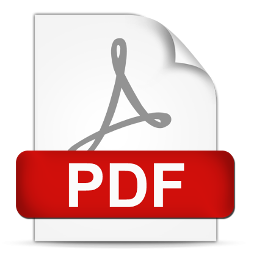
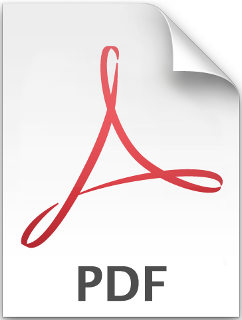
better datatables

diff --git a/app/pdfs/pdf_examination_protocol_r.rb b/app/pdfs/pdf_examination_protocol_r.rb
@@ -9,14 +9,7 @@ class PdfExaminationProtocolR < Prawn::Document
     @examinations = examinations
     @exam = exam
     @view = view
-    #@kuku = @examinations.map(&:division_id)
-    #@kuku = Division.where(id: @examinations.map(&:division_id)).all.map(&:short_name)
-    #@kuku = Division.where(id: @examinations.map(&:division_id)).order(:short_name).all.map(&:short_name)
-    #@kuku = Division.where(id: @examinations.map(&:division_id)).order(:short_name).all.map { |s| "#{s.short_name}" }
-    #@kuku = Division.where(id: @examinations.map(&:division_id).uniq).order(:short_name).all.pluck(:short_name)
-    #@kuku = Division.where(id: @examinations.map(&:division_id).uniq).order(:short_name).all.map { |s| "#{s.short_name}" }
-    #@kuku = Division.where(id: @examinations.map(&:division_id).uniq).order(:short_name).all.pluck(:short_name).inspect
-    @divisions_str = Division.where(id: @examinations.map(&:division_id).uniq).order(:short_name).all.map(&:short_name).join(', ')
+    @divisions_str = Division.where(id: @examinations.map(&:division_id).uniq).order(:short_name).map(&:short_name).join(', ')
 
     font_families.update("DejaVu Sans" => {
       :normal => "#{Rails.root}/app/assets/fonts/DejaVuSans.ttf", 
@@ -46,31 +39,58 @@ class PdfExaminationProtocolR < Prawn::Document
       else
         table( table_data,
               :header => true,
-              :column_widths => [20, 300, 100, 105],
+              :column_widths => [23, 170, 56, 214, 62],
               #:row_colors => ["ffffff", "c2ced7"],
               :cell_style => { size: 8, :border_width => 0.5 }
             ) do
           columns(0).align = :right
           columns(1).align = :left
           columns(2).align = :left
-          row(0).font_style = :bold 
+          #row(0).font_style = :bold 
           row(0).align = :left 
-          #row(0).background_color = "#FF0000"
+          row(0).background_color = "C0C0C0"
         end             
       end
+      display_total_table  
     end  
   end
 
-
-  def table_data
+  def table_data_ok
     @lp = 0
-    table_data ||= [["Lp",
-                     "Przedmiot",
-                     "Ocena (słownie)",
-                     "Podpis egzaminatora"]] + 
+    table_data ||= [
+                    ["Lp.",
+                     "Nazwisko i imię",
+                     "Rodzaj świadectwa",
+                     "Ocena z przedmiotów w/g karty egzaminacyjnej",
+                     "Wynik egzaminu"]
+                    ] + 
                      @examinations.map { |p| [ 
                         next_lp, 
                         p.customer.fullname,
+                        p.division.short_name,
+                        "",
+                        p.examination_resoult_name
+                      ] }
+  end
+
+  def table_data
+    @lp = 0
+    table_data ||= [["Lp.",
+                     "Nazwisko i imię",
+                     "Rodzaj świadectwa",
+                     "Ocena z przedmiotów w/g karty egzaminacyjnej",
+                     "Wynik egzaminu"], 
+                     ["LP",
+                      "NAME",
+                      "RODZAJ",
+                      "OCENA",
+                      "WYNIK"
+                     ] 
+                     ] + 
+                     @examinations.map { |p| [ 
+                        next_lp, 
+                        p.customer.fullname,
+                        p.division.short_name,
                         "",
                         p.examination_resoult_name
                       ] }
@@ -79,6 +99,15 @@ class PdfExaminationProtocolR < Prawn::Document
   def next_lp
     @lp = @lp +1
     return @lp 
+  end
+
+
+  def display_total_table
+    move_down 20
+    text "Członkowie Komisji Egzaminacyjnej", :align => :center
+    move_down 10
+    text "Przewodniczący sesji: #{@exam.chairman}"
+    text "Sekretarz sesji:      #{@exam.secretary}"
   end
 
 

diff --git a/app/datatables/exam_certificates_datatable.rb b/app/datatables/exam_certificates_datatable.rb
@@ -5,7 +5,7 @@ class ExamCertificatesDatatable < AjaxDatatablesRails::Base
   # include AjaxDatatablesRails::Extensions::WillPaginate
   # include AjaxDatatablesRails::Extensions::SimplePaginator
 
-  def_delegators :@view, :link_to, :h, :mailto, :attachment_url
+  def_delegators :@view, :link_to, :h, :mailto, :attachment_url, :image_tag, :get_fileattach_as_small_image
 
   def sortable_columns
     # list columns inside the Array in string dot notation.
@@ -40,14 +40,15 @@ class ExamCertificatesDatatable < AjaxDatatablesRails::Base
   def data
     # comma separated list of the values for each cell of a table row
     # certificateple: record.attribute,
+
     records.map do |record|
+
+      attach = record.documents.where(fileattach_content_type: ['image/jpeg', 'image/png', 'application/pdf']).last 
+
       [
         record.id,
-        #record.document_image_id? ? '<img src="' + get_attach_path(record)+ '">' : ' ',
-        # OK
-        #record.document_image_id? ? '<a href="/' + record.category.downcase + '/certificates/' + record.id.to_s + '"><img src="' + get_attach_path(record)+ '"></a>' : ' ',
-        record.documents.where(fileattach_content_type: ['image/jpeg', 'image/png', 'application/pdf']).any? ? '<a href="/' + record.category.downcase + '/certificates/' + record.id.to_s + '"><img src="' + get_attach_path(record)+ '"></a>' : ' ',
-        link_to(record.number, @view.certificate_path(params[:category_service], record)),
+        attach.present? ? link_to( image_tag( get_fileattach_as_small_image(attach, record.category.downcase) ), @view.certificate_path(params[:category_service], record, back_url: @view.exam_path(record.exam.category.downcase, record.exam))) : '',
+        link_to(record.number, @view.certificate_path(params[:category_service], record, back_url: @view.exam_path(record.exam.category.downcase, record.exam))),
         record.date_of_issue,
         record.valid_thru,
         record.certificate_status,
@@ -63,17 +64,6 @@ class ExamCertificatesDatatable < AjaxDatatablesRails::Base
                         class: "glyphicon glyphicon-trash", title: 'Usuń', rel: 'tooltip')  
       ]
     end
-  end
-
-  def get_attach_path(record)
-    case record.category.downcase
-    when 'l'
-      attachment_url(record.documents.where(fileattach_content_type: ['image/jpeg', 'image/png', 'application/pdf']).last, :fileattach, :fill, 87, 61, format: 'jpg')
-    when 'm'
-      attachment_url(record.documents.where(fileattach_content_type: ['image/jpeg', 'image/png', 'application/pdf']).last, :fileattach, :fill, 54, 77, format: 'jpg')
-    when 'r'
-      attachment_url(record.documents.where(fileattach_content_type: ['image/jpeg', 'image/png', 'application/pdf']).last, :fileattach, :fill, 54, 77, format: 'jpg')
-    end  
   end
 
   def get_raw_records

diff --git a/app/datatables/certificate_datatable.rb b/app/datatables/certificate_datatable.rb
@@ -5,7 +5,7 @@ class CertificateDatatable < AjaxDatatablesRails::Base
   # include AjaxDatatablesRails::Extensions::WillPaginate
   # include AjaxDatatablesRails::Extensions::SimplePaginator
 
-  def_delegators :@view, :link_to, :h, :mailto, :attachment_url
+  def_delegators :@view, :link_to, :h, :mailto, :attachment_url, :image_tag, :get_fileattach_as_small_image
 
   def sortable_columns
     # list columns inside the Array in string dot notation.
@@ -42,13 +42,12 @@ class CertificateDatatable < AjaxDatatablesRails::Base
     # comma separated list of the values for each cell of a table row
     # certificateple: record.attribute,
     records.map do |record|
+
+      attach = record.documents.where(fileattach_content_type: ['image/jpeg', 'image/png', 'application/pdf']).last 
+
       [
         record.id,
-        #'<img src="' +  '/attachments/store/fill/87/61/87556/BOGUSZEWSKI+ROBERT_OR_L-16646.jpg" alt="Boguszewski+robert or l 16646' +  '">',
-        #record.document_image_id? ? '<img src="' + get_attach_path(record)+ '">' : ' ',
-        # OK
-        #record.document_image_id? ? '<a href="/' + record.category.downcase + '/certificates/' + record.id.to_s + '"><img src="' + get_attach_path(record) + '"></a>' : ' ',
-        record.documents.where(fileattach_content_type: ['image/jpeg', 'image/png', 'application/pdf']).any? ? '<a href="/' + record.category.downcase + '/certificates/' + record.id.to_s + '"><img src="' + get_attach_path(record)+ '"></a>' : ' ',
+        attach.present? ? link_to( image_tag( get_fileattach_as_small_image(attach, record.category.downcase) ), @view.certificate_path(params[:category_service], record)) : '',
         link_to(record.number, @view.certificate_path(record.category.downcase, record)),
         record.date_of_issue,
         record.valid_thru,
@@ -59,17 +58,6 @@ class CertificateDatatable < AjaxDatatablesRails::Base
         record.category 
       ]
     end
-  end
-
-  def get_attach_path(record)
-    case record.category.downcase
-    when 'l'
-      attachment_url(record.documents.where(fileattach_content_type: ['image/jpeg', 'image/png', 'application/pdf']).last, :fileattach, :fill, 87, 61, format: 'jpg')
-    when 'm'
-      attachment_url(record.documents.where(fileattach_content_type: ['image/jpeg', 'image/png', 'application/pdf']).last, :fileattach, :fill, 54, 77, format: 'jpg')
-    when 'r'
-      attachment_url(record.documents.where(fileattach_content_type: ['image/jpeg', 'image/png', 'application/pdf']).last, :fileattach, :fill, 54, 77, format: 'jpg')
-    end  
   end
 
   def get_raw_records

diff --git a/app/datatables/exam_examinations_datatable.rb b/app/datatables/exam_examinations_datatable.rb
@@ -5,7 +5,7 @@ class ExamExaminationsDatatable < AjaxDatatablesRails::Base
   # include AjaxDatatablesRails::Extensions::WillPaginate
   # include AjaxDatatablesRails::Extensions::SimplePaginator
 
-  def_delegators :@view, :link_to, :h, :mailto, :attachment_url
+  def_delegators :@view, :link_to, :h, :mailto, :attachment_url, :image_tag, :get_fileattach_as_small_image
 
   def sortable_columns
     # list columns inside the Array in string dot notation.
@@ -39,12 +39,12 @@ class ExamExaminationsDatatable < AjaxDatatablesRails::Base
     # comma separated list of the values for each cell of a table row
     # certificateple: record.attribute,
     records.map do |record|
+
+      attach = record.documents.where(fileattach_content_type: ['image/jpeg', 'image/png', 'application/pdf']).last 
+
       [
         record.id,
-        #record.document_image_id? ? '<img src="' + get_attach_path(record)+ '">' : ' ',
-        # OK
-        #record.document_image_id? ? '<a href="/' + record.category.downcase + '/certificates/' + record.id.to_s + '"><img src="' + get_attach_path(record)+ '"></a>' : ' ',
-        record.documents.where(fileattach_content_type: ['image/jpeg', 'image/png', 'application/pdf']).any? ? '<a href="/' + record.category.downcase + '/examinations/' + record.id.to_s + '"><img src="' + get_attach_path(record)+ '"></a>' : ' ',
+        attach.present? ? link_to( image_tag( get_fileattach_as_small_image(attach, params[:category_service]) ), @view.examination_path(params[:category_service], record, back_url: @view.exam_path(record.exam.category.downcase, record.exam))) : '',
         link_to(record.customer.fullname_and_address, @view.customer_path(record.customer)),
         record.examination_category_name,
         record.division.name + " (" + record.division.short_name + ")",
@@ -63,17 +63,6 @@ class ExamExaminationsDatatable < AjaxDatatablesRails::Base
 
       ]
     end
-  end
-
-  def get_attach_path(record)
-    case record.category.downcase
-    when 'l'
-      attachment_url(record.documents.where(fileattach_content_type: ['image/jpeg', 'image/png', 'application/pdf']).last, :fileattach, :fill, 87, 61, format: 'jpg')
-    when 'm'
-      attachment_url(record.documents.where(fileattach_content_type: ['image/jpeg', 'image/png', 'application/pdf']).last, :fileattach, :fill, 54, 77, format: 'jpg')
-    when 'r'
-      attachment_url(record.documents.where(fileattach_content_type: ['image/jpeg', 'image/png', 'application/pdf']).last, :fileattach, :fill, 54, 77, format: 'jpg')
-    end  
   end
 
   def get_raw_records

diff --git a/app/datatables/exam_datatable.rb b/app/datatables/exam_datatable.rb
@@ -5,7 +5,7 @@ class ExamDatatable < AjaxDatatablesRails::Base
   # include AjaxDatatablesRails::Extensions::WillPaginate
   # include AjaxDatatablesRails::Extensions::SimplePaginator
 
-  def_delegators :@view, :link_to, :h, :mailto, :attachment_url
+  def_delegators :@view, :link_to, :h, :mailto, :attachment_url, :image_tag, :get_fileattach_as_small_image
 
   def sortable_columns
     # list columns inside the Array in string dot notation.
@@ -45,8 +45,11 @@ class ExamDatatable < AjaxDatatablesRails::Base
     # comma separated list of the values for each cell of a table row
     # example: record.attribute,
     records.map do |record|
+      attach = record.documents.where(fileattach_content_type: ['image/jpeg', 'image/png', 'application/pdf']).last 
+
       [
         record.id,
+        attach.present? ? link_to( image_tag( get_fileattach_as_small_image(attach, record.category.downcase) ), @view.exam_path(params[:category_service], record)) : '',
         link_to(record.number, @view.exam_path(record.category.downcase, record)),
         record.date_exam,
         record.place_exam,

diff --git a/app/helpers/application_helper.rb b/app/helpers/application_helper.rb
@@ -58,7 +58,7 @@ module ApplicationHelper
     when 'application/pdf'
       #attachment_url(attach, :fileattach, :fill, horizontal_small_size(for_service), vertical_small_size(for_service), format: "pdf")
 
-      asset_path("pdf.png")
+      asset_path("pdf_small.png")
 
     else      
       asset_path("logo.png")
